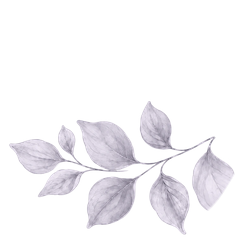
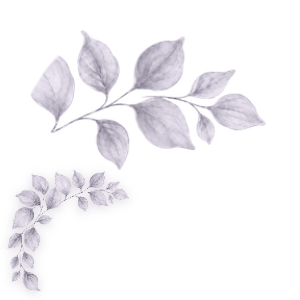
fix: reverse envelope corner sprig direction inward and add hydrangea flower at corner to conceal stem tail

diff --git a/BE_Wedding_Web/uploads/templates/test-quyen-sua/index.html b/BE_Wedding_Web/uploads/templates/test-quyen-sua/index.html
@@ -1,4 +1,4 @@
-<!DOCTYPE html><html lang="vi"><head>
+<!DOCTYPE html><html lang="vi"><head>
   <meta charset="UTF-8">
   <meta name="viewport" content="width=device-width, initial-scale=1, viewport-fit=cover">
   <title>Duy Nam &amp; Vân Anh — Thiệp Cưới Editorial</title>
@@ -109,8 +109,8 @@
           </div>
 
           <!-- Botanical Corner Flourishes on Envelope (Matching Reference Panel 4 & 5) -->
-          <img src="assets/images/intro-env-sprig-bl.png?v=8.0" alt="" class="envelope-corner-decor envelope-decor-bl" aria-hidden="true">
-          <img src="assets/images/intro-env-sprig-tr.png?v=8.0" alt="" class="envelope-corner-decor envelope-decor-tr" aria-hidden="true">
+          <img src="assets/images/intro-env-sprig-bl.png?v=9.0" alt="" class="envelope-corner-decor envelope-decor-bl" aria-hidden="true">
+          <img src="assets/images/intro-env-sprig-tr.png?v=9.0" alt="" class="envelope-corner-decor envelope-decor-tr" aria-hidden="true">
 
           <!-- Envelope Top Flap (Flips open in 3D, matching Panel 5 & 6) -->
           <div class="envelope-top-flap" id="envelope-top-flap">
@@ -925,7 +925,7 @@
     </button>
 
     <!-- Corner Hydrangea Flourish -->
-    <img src="assets/images/intro-env-sprig-tr.png?v=8.0" alt="" class="modal-corner-flourish" aria-hidden="true">
+    <img src="assets/images/intro-env-sprig-tr.png?v=9.0" alt="" class="modal-corner-flourish" aria-hidden="true">
 
     <div class="gift-modal-body text-center">
       <span class="modal-eyebrow">HỘP MỪNG CƯỚI</span>

diff --git a/BE_Wedding_Web/uploads/templates/_preview/00b8d38b0085436a73ed6d7279252967/index.html b/BE_Wedding_Web/uploads/templates/_preview/00b8d38b0085436a73ed6d7279252967/index.html
@@ -1,4 +1,4 @@
-<!DOCTYPE html><html lang="vi"><head>
+<!DOCTYPE html><html lang="vi"><head>
   <meta charset="UTF-8">
   <meta name="viewport" content="width=device-width, initial-scale=1, viewport-fit=cover">
   <title>Duy Nam &amp; Vân Anh — Thiệp Cưới Editorial</title>
@@ -97,8 +97,8 @@
           </div>
 
           <!-- Botanical Corner Flourishes on Envelope (Matching Reference Panel 4 & 5) -->
-          <img src="assets/images/intro-env-sprig-bl.png?v=8.0" alt="" class="envelope-corner-decor envelope-decor-bl" aria-hidden="true">
-          <img src="assets/images/intro-env-sprig-tr.png?v=8.0" alt="" class="envelope-corner-decor envelope-decor-tr" aria-hidden="true">
+          <img src="assets/images/intro-env-sprig-bl.png?v=9.0" alt="" class="envelope-corner-decor envelope-decor-bl" aria-hidden="true">
+          <img src="assets/images/intro-env-sprig-tr.png?v=9.0" alt="" class="envelope-corner-decor envelope-decor-tr" aria-hidden="true">
 
           <!-- Envelope Top Flap (Flips open in 3D, matching Panel 5 & 6) -->
           <div class="envelope-top-flap" id="envelope-top-flap">
@@ -793,7 +793,7 @@
     </button>
 
     <!-- Corner Hydrangea Flourish -->
-    <img src="assets/images/intro-env-sprig-tr.png?v=8.0" alt="" class="modal-corner-flourish" aria-hidden="true">
+    <img src="assets/images/intro-env-sprig-tr.png?v=9.0" alt="" class="modal-corner-flourish" aria-hidden="true">
 
     <div class="gift-modal-body text-center">
       <span class="modal-eyebrow">HỘP MỪNG CƯỚI</span>

diff --git a/BE_Wedding_Web/uploads/templates/_preview/c480920570cec18339a0acfff9f74e1d/index.html b/BE_Wedding_Web/uploads/templates/_preview/c480920570cec18339a0acfff9f74e1d/index.html
@@ -1,4 +1,4 @@
-<!DOCTYPE html><html lang="vi"><head>
+<!DOCTYPE html><html lang="vi"><head>
   <meta charset="UTF-8">
   <meta name="viewport" content="width=device-width, initial-scale=1, viewport-fit=cover">
   <title>Duy Nam &amp; Vân Anh — Thiệp Cưới Editorial</title>
@@ -97,8 +97,8 @@
           </div>
 
           <!-- Botanical Corner Flourishes on Envelope (Matching Reference Panel 4 & 5) -->
-          <img src="assets/images/intro-env-sprig-bl.png?v=8.0" alt="" class="envelope-corner-decor envelope-decor-bl" aria-hidden="true">
-          <img src="assets/images/intro-env-sprig-tr.png?v=8.0" alt="" class="envelope-corner-decor envelope-decor-tr" aria-hidden="true">
+          <img src="assets/images/intro-env-sprig-bl.png?v=9.0" alt="" class="envelope-corner-decor envelope-decor-bl" aria-hidden="true">
+          <img src="assets/images/intro-env-sprig-tr.png?v=9.0" alt="" class="envelope-corner-decor envelope-decor-tr" aria-hidden="true">
 
           <!-- Envelope Top Flap (Flips open in 3D, matching Panel 5 & 6) -->
           <div class="envelope-top-flap" id="envelope-top-flap">
@@ -793,7 +793,7 @@
     </button>
 
     <!-- Corner Hydrangea Flourish -->
-    <img src="assets/images/intro-env-sprig-tr.png?v=8.0" alt="" class="modal-corner-flourish" aria-hidden="true">
+    <img src="assets/images/intro-env-sprig-tr.png?v=9.0" alt="" class="modal-corner-flourish" aria-hidden="true">
 
     <div class="gift-modal-body text-center">
       <span class="modal-eyebrow">HỘP MỪNG CƯỚI</span>

diff --git a/BE_Wedding_Web/uploads/templates/theme_hydrangea_editorial/index.html b/BE_Wedding_Web/uploads/templates/theme_hydrangea_editorial/index.html
@@ -1,4 +1,4 @@
-<!DOCTYPE html>
+<!DOCTYPE html>
 <html lang="vi">
 <head>
   <meta charset="UTF-8">
@@ -117,8 +117,8 @@
           </div>
 
           <!-- Botanical Corner Flourishes on Envelope (Matching Reference Panel 4 & 5) -->
-          <img src="assets/images/intro-env-sprig-bl.png?v=8.0" alt="" class="envelope-corner-decor envelope-decor-bl" aria-hidden="true">
-          <img src="assets/images/intro-env-sprig-tr.png?v=8.0" alt="" class="envelope-corner-decor envelope-decor-tr" aria-hidden="true">
+          <img src="assets/images/intro-env-sprig-bl.png?v=9.0" alt="" class="envelope-corner-decor envelope-decor-bl" aria-hidden="true">
+          <img src="assets/images/intro-env-sprig-tr.png?v=9.0" alt="" class="envelope-corner-decor envelope-decor-tr" aria-hidden="true">
 
           <!-- Envelope Top Flap (Flips open in 3D, matching Panel 5 & 6) -->
           <div class="envelope-top-flap" id="envelope-top-flap">
@@ -932,7 +932,7 @@
     </button>
 
     <!-- Corner Hydrangea Flourish -->
-    <img src="assets/images/intro-env-sprig-tr.png?v=8.0" alt="" class="modal-corner-flourish" aria-hidden="true">
+    <img src="assets/images/intro-env-sprig-tr.png?v=9.0" alt="" class="modal-corner-flourish" aria-hidden="true">
 
     <div class="gift-modal-body text-center">
       <span class="modal-eyebrow">HỘP MỪNG CƯỚI</span>

diff --git a/BE_Wedding_Web/uploads/templates/_preview/00b8d38b0085436a73ed6d7279252967/assets/css/letter-intro.css b/BE_Wedding_Web/uploads/templates/_preview/00b8d38b0085436a73ed6d7279252967/assets/css/letter-intro.css
@@ -1,4 +1,4 @@
-/* ==========================================================================
+/* ==========================================================================
    WEDDING LETTER INTRO — DOVES DELIVER THE WEDDING LETTER
    Masterpiece Botanical Watercolor Stationery & 60 FPS GSAP Motion Engine
    Source of Truth: Reference Storyboard (media_1789570012744.jpg)
@@ -519,23 +519,23 @@ body.intro-active {
 /* Botanical Corner Flourishes on Envelope (Matching Reference Panel 4 & 5) */
 .envelope-corner-decor {
   position: absolute;
-  width: 72px;
-  height: 72px;
-  opacity: 0.82;
+  width: 78px;
+  height: 78px;
+  opacity: 0.92;
   pointer-events: none;
   z-index: 9;
   object-fit: contain;
 }
 
 .envelope-decor-bl {
-  bottom: 2px;
-  left: 2px;
+  bottom: 0px;
+  left: 0px;
   transform: none;
 }
 
 .envelope-decor-tr {
-  top: 2px;
-  right: 2px;
+  top: 0px;
+  right: 0px;
   transform: none;
 }
 

diff --git a/BE_Wedding_Web/uploads/templates/_preview/c480920570cec18339a0acfff9f74e1d/assets/css/letter-intro.css b/BE_Wedding_Web/uploads/templates/_preview/c480920570cec18339a0acfff9f74e1d/assets/css/letter-intro.css
@@ -1,4 +1,4 @@
-/* ==========================================================================
+/* ==========================================================================
    WEDDING LETTER INTRO — DOVES DELIVER THE WEDDING LETTER
    Masterpiece Botanical Watercolor Stationery & 60 FPS GSAP Motion Engine
    Source of Truth: Reference Storyboard (media_1789570012744.jpg)
@@ -519,23 +519,23 @@ body.intro-active {
 /* Botanical Corner Flourishes on Envelope (Matching Reference Panel 4 & 5) */
 .envelope-corner-decor {
   position: absolute;
-  width: 72px;
-  height: 72px;
-  opacity: 0.82;
+  width: 78px;
+  height: 78px;
+  opacity: 0.92;
   pointer-events: none;
   z-index: 9;
   object-fit: contain;
 }
 
 .envelope-decor-bl {
-  bottom: 2px;
-  left: 2px;
+  bottom: 0px;
+  left: 0px;
   transform: none;
 }
 
 .envelope-decor-tr {
-  top: 2px;
-  right: 2px;
+  top: 0px;
+  right: 0px;
   transform: none;
 }
 

diff --git a/BE_Wedding_Web/uploads/templates/test-quyen-sua/assets/css/letter-intro.css b/BE_Wedding_Web/uploads/templates/test-quyen-sua/assets/css/letter-intro.css
@@ -1,4 +1,4 @@
-/* ==========================================================================
+/* ==========================================================================
    WEDDING LETTER INTRO — DOVES DELIVER THE WEDDING LETTER
    Masterpiece Botanical Watercolor Stationery & 60 FPS GSAP Motion Engine
    Source of Truth: Reference Storyboard (media_1789570012744.jpg)
@@ -558,23 +558,23 @@ body.intro-active {
 /* Botanical Corner Flourishes on Envelope (Matching Reference Panel 4 & 5) */
 .envelope-corner-decor {
   position: absolute;
-  width: 72px;
-  height: 72px;
-  opacity: 0.82;
+  width: 78px;
+  height: 78px;
+  opacity: 0.92;
   pointer-events: none;
   z-index: 9;
   object-fit: contain;
 }
 
 .envelope-decor-bl {
-  bottom: 2px;
-  left: 2px;
+  bottom: 0px;
+  left: 0px;
   transform: none;
 }
 
 .envelope-decor-tr {
-  top: 2px;
-  right: 2px;
+  top: 0px;
+  right: 0px;
   transform: none;
 }
 

diff --git a/BE_Wedding_Web/uploads/templates/theme_hydrangea_editorial/assets/css/letter-intro.css b/BE_Wedding_Web/uploads/templates/theme_hydrangea_editorial/assets/css/letter-intro.css
@@ -1,4 +1,4 @@
-/* ==========================================================================
+/* ==========================================================================
    WEDDING LETTER INTRO — DOVES DELIVER THE WEDDING LETTER
    Masterpiece Botanical Watercolor Stationery & 60 FPS GSAP Motion Engine
    Source of Truth: Reference Storyboard (media_1789570012744.jpg)
@@ -558,23 +558,23 @@ body.intro-active {
 /* Botanical Corner Flourishes on Envelope (Matching Reference Panel 4 & 5) */
 .envelope-corner-decor {
   position: absolute;
-  width: 72px;
-  height: 72px;
-  opacity: 0.82;
+  width: 78px;
+  height: 78px;
+  opacity: 0.92;
   pointer-events: none;
   z-index: 9;
   object-fit: contain;
 }
 
 .envelope-decor-bl {
-  bottom: 2px;
-  left: 2px;
+  bottom: 0px;
+  left: 0px;
   transform: none;
 }
 
 .envelope-decor-tr {
-  top: 2px;
-  right: 2px;
+  top: 0px;
+  right: 0px;
   transform: none;
 }
 
